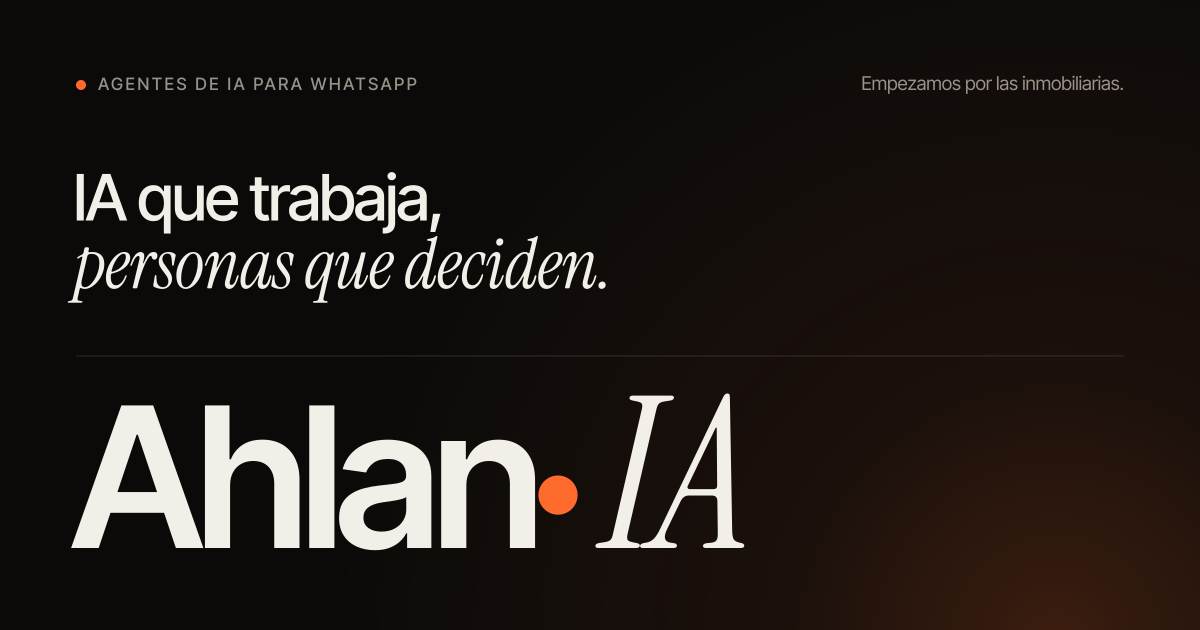
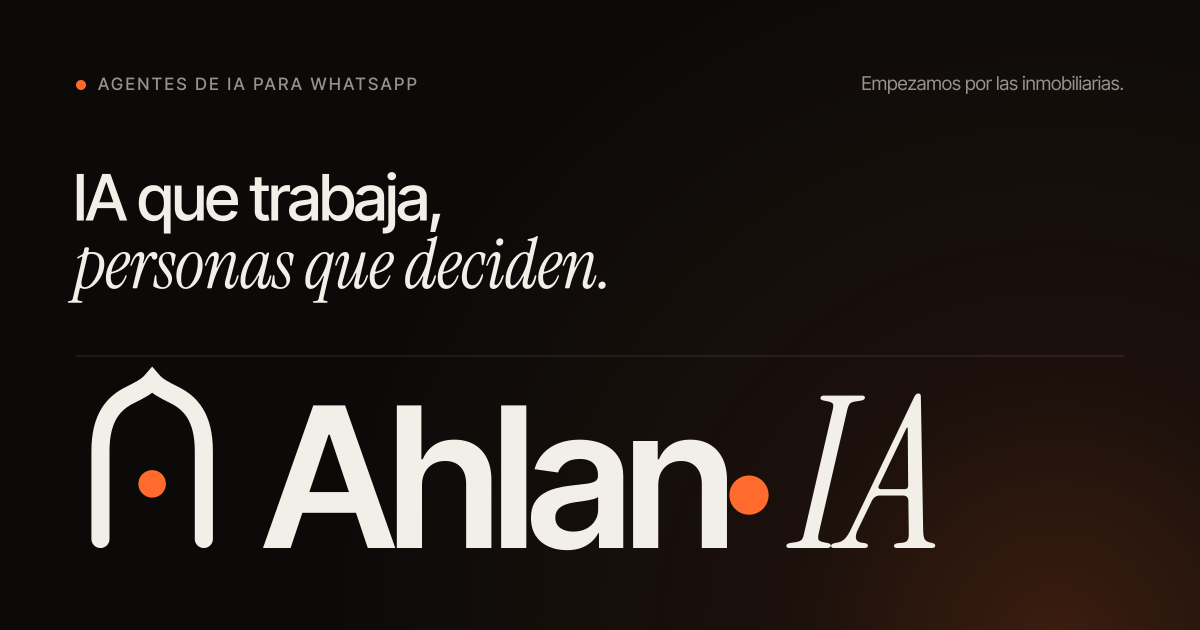
Nuevo logotipo de Ahlan IA: arco conopial con punto naranja
- Símbolo vectorial (redibujado a partir del boceto) en la cabecera y el pie.
- Favicons, iconos de la app e imagen OG regenerados con el arco.
- Carpeta marca/ con el kit: símbolo en SVG/PNG, fotos de perfil para
  WhatsApp e Instagram y logotipo completo en claro, oscuro y transparente.

Claude-Session: https://claude.ai/code/session_01NJhJ6zCad3cshqoCQZ962U

Changed region(s): [[0.0617, 0.573, 0.6475, 0.8746], [0.6475, 0.6032, 0.7708, 0.8746]]

diff --git a/marca/LEEME.md b/marca/LEEME.md
@@ -1,0 +1,16 @@
+# Marca Ahlan IA
+
+Símbolo: arco conopial (una puerta de bienvenida: "ahlan" = bienvenido) con un
+punto naranja dentro (la persona a la que se recibe).
+
+Colores: negro cálido `#0B0A09` · crema `#F2EEE8` · naranja `#FF6B2C`.
+Tipografías: Inter Tight (nombre) e Instrument Serif cursiva ("IA").
+
+| Archivo | Para qué |
+|---|---|
+| `perfil-whatsapp-instagram-naranja.png` | Foto de perfil de WhatsApp Business e Instagram (recomendada) |
+| `perfil-whatsapp-instagram-negro.png` | Foto de perfil alternativa |
+| `logotipo-crema-sobre-negro.png` / `logotipo-negro-sobre-crema.png` | Logotipo completo con fondo |
+| `logotipo-*-transparente.png` | Logotipo sin fondo (presentaciones, documentos, firma de correo) |
+| `simbolo-*.svg` / `.png` | Solo el arco: iconos, sellos, vinilos (el SVG se puede ampliar sin perder calidad) |
+| `simbolo-una-tinta-negro` | Versión a una tinta (sellos, grabados, impresión en un color) |
